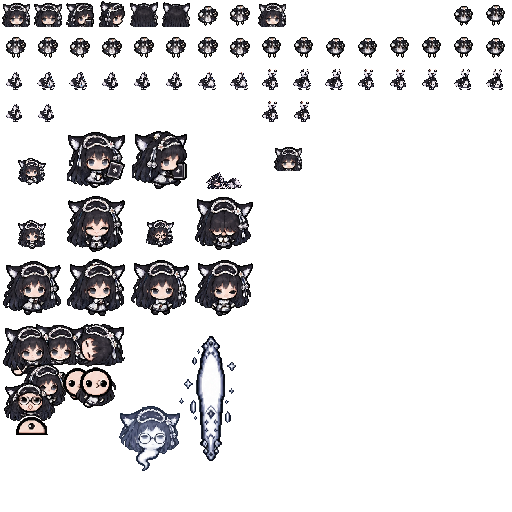
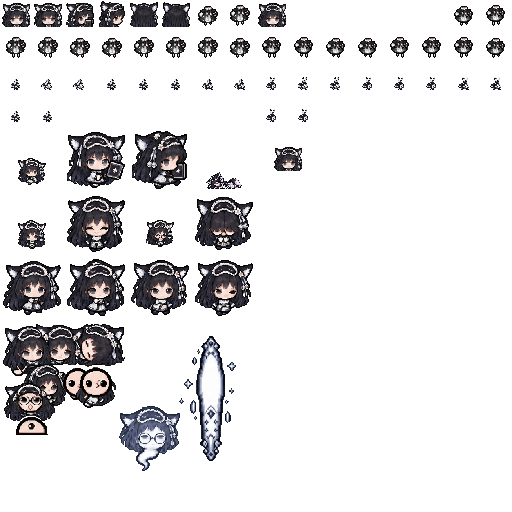
fix: keep GLM carry bodies below the face

Changed region(s): [[0.0, 0.125, 1.0, 0.25], [0.0, 0.2188, 0.125, 0.25]]

diff --git a/tools/pack_profile_poses.py b/tools/pack_profile_poses.py
@@ -3,6 +3,7 @@
 Run after the legacy walk pass. --check re-packs the published sources in memory;
 --before-ref also proves every registered skin is unchanged outside the repair
 cells (and unchanged entirely for other families). Requires Pillow, offline only.
+--body-only excludes fallen cells from both packing and the isolation allowance.
 """
 import argparse
 import hashlib
@@ -27,11 +28,11 @@ def side_position(index, carry=False):
     return x + (256 if carry else 0), y
 
 
-def regions(record):
+def regions(record, body_only=False):
     cells = [(x, y, x + 32, y + 32)
             for carry in (False, True) for i in range(10)
             for x, y in [side_position(i, carry)]]
-    return cells + ([(192, 128, 256, 192)] if 'fallen' in record else [])
+    return cells + ([(192, 128, 256, 192)] if 'fallen' in record and not body_only else [])
 
 
 def source_image(record, expected_size):
@@ -47,7 +48,7 @@ def source_image(record, expected_size):
     return Image.alpha_composite(Image.new('RGBA', image.size), image)
 
 
-def apply(atlas, key):
+def apply(atlas, key, body_only=False):
     record = next((r for r in records() if r['key'] == key), None)
     if record is None:
         return atlas
@@ -83,7 +84,7 @@ def apply(atlas, key):
             frames.append(cell)
         for i, phase in enumerate(cfg['cycle']):
             out.paste(frames[phase], side_position(i, bool(row)))
-    if 'fallen' in record:
+    if 'fallen' in record and not body_only:
         cfg = record['fallen']
         part = source_image(record['sources'][1], cfg['size'])
         part = part.crop(part.getbbox())
@@ -94,7 +95,7 @@ def apply(atlas, key):
     return out
 
 
-def verify_isolation(before_ref, keys=None):
+def verify_isolation(before_ref, keys=None, body_only=False):
     repaired = {r['key']: r for r in records() if keys is None or r['key'] in keys}
     players = ET.parse(ROOT / 'content/players.xml').getroot()
     for player in players:
@@ -107,7 +108,7 @@ def verify_isolation(before_ref, keys=None):
             raise ValueError(f'{rel}: atlas dimensions changed')
         key = path.stem.removeprefix('character_').removesuffix('_b').removesuffix('chan')
         if key in repaired:
-            for box in regions(repaired[key]):
+            for box in regions(repaired[key], body_only):
                 new.paste(old.crop(box), box[:2])
         if old.tobytes() != new.tobytes():
             raise ValueError(f'{rel}: pixels changed outside allowed profile/fallen cells')
@@ -118,6 +119,8 @@ def main():
     parser = argparse.ArgumentParser(description=__doc__)
     parser.add_argument('--check', action='store_true')
     parser.add_argument('--before-ref')
+    parser.add_argument('--body-only', action='store_true',
+                        help='Pack/check side and carry bodies while protecting every fallen cell')
     parser.add_argument('--key', action='append', choices=[r['key'] for r in records()],
                         help='Limit writes and allowed change regions to these families; repeatable')
     args = parser.parse_args()
@@ -129,7 +132,7 @@ def main():
             continue
         target = ROOT / f'resources/gfx/characters/costumes/character_{key}chan.png'
         current = Image.open(target).convert('RGBA')
-        rebuilt = apply(current, key)
+        rebuilt = apply(current, key, args.body_only)
         if args.check:
             if current.tobytes() != rebuilt.tobytes():
                 raise ValueError(f'{key}: packed cells differ from published sources')
@@ -142,8 +145,9 @@ def main():
         manifest_path.write_text(json.dumps(manifest, indent=2)+'\n', encoding='utf-8')
         print('Updated normal sheets; regenerate existing tainted skins with --skins-only.')
     if args.before_ref:
-        verify_isolation(args.before_ref, args.key)
-    print('PASS: reviewed profile/carry/fallen source packing; offline only')
+        verify_isolation(args.before_ref, args.key, args.body_only)
+    scope = 'profile/carry' if args.body_only else 'profile/carry/fallen'
+    print(f'PASS: reviewed {scope} source packing; offline only')
 
 
 if __name__ == '__main__':

diff --git a/tools/preview_profile_poses.py b/tools/preview_profile_poses.py
@@ -24,6 +24,8 @@ def main():
     parser.add_argument('--animation-reference', type=Path, required=True)
     parser.add_argument('--before-ref', required=True)
     parser.add_argument('--key', default='glm')
+    parser.add_argument('--body-only', action='store_true',
+                        help='Label this review as a body fit, with Hit/Death as unchanged controls')
     args = parser.parse_args()
     output = args.output.resolve()
     if any(output.is_relative_to(ROOT / p) for p in ('resources', 'content')):
@@ -39,10 +41,11 @@ def main():
     output.mkdir(parents=True, exist_ok=True)
     panel = Image.new('RGB', (128 + 192*len(SELECTED), 1150), '#202b3a')
     draw = ImageDraw.Draw(panel)
-    scope = 'profile/carry/fallen repair' if 'fallen' in record else 'profile/carry repair; Hit/Death controls'
+    scope = ('profile/carry/fallen repair' if 'fallen' in record and not args.body_only else
+             'profile/carry repair; Hit/Death controls')
     draw.text((12, 8), f'{args.key.upper()} {scope} / mod pixels only / native keyframe transforms', fill='white')
     draw.text((12, 26), 'Native size above; nearest 2x below. Offline only: no item, ghost, tint, costumes or engine effects.', fill='#d2dde8')
-    report = {'before_ref': args.before_ref,
+    report = {'before_ref': args.before_ref, 'scope': scope,
               'animation_sha256': hashlib.sha256(args.animation_reference.read_bytes()).hexdigest(),
               'evidence': 'Offline keyframe composition; single carry-head key held for the cycle; not engine acceptance', 'skins': []}
     for form, suffix in enumerate(('', '_b')):

diff --git a/docs/ART_STATUS.md b/docs/ART_STATUS.md
@@ -4,7 +4,7 @@ Art inventory audited from source `8fd6a8c` on 2026-10-26, updated through the [
 
 ## Scope and evidence
 
-The runtime and earlier review inventory contains **216 tracked art files: 191 PNGs and 25 ANM2 files**. The tables below enumerate those paths once: 22 gameplay sheets, 22 stage/VS portraits, 22 dossier portraits, 22 dossier wrappers, 11 shared name strips, six menu files, 80 collectible icons, 12 trinket icons, one repository thumbnail and eighteen item-review PNGs. The [approved tainted design registry](approved-tainted-designs.json) separately inventories nine high-resolution source PNGs and their comparison JPEG, bringing that checkpoint to 226 files. The [GLM pose repair](GLM_PROFILE_POSES_2026-10-31.md) adds two generated source PNGs and one review PNG: **229 art files total (203 PNGs, 25 ANM2, one JPEG)**. The [GPT/Gemini profile repair](GPT_GEMINI_PROFILE_POSES_2026-10-31.md) adds two source PNGs and two review PNGs: **233 art files total (207 PNGs, 25 ANM2, one JPEG)**. These seventeen additional review/source files are not loaded by the game. No font file is bundled. The five pills, Relay Slime and native effect/HUD presentation are listed separately because they do not add custom image files.
+The runtime and earlier review inventory contains **216 tracked art files: 191 PNGs and 25 ANM2 files**. The tables below enumerate those paths once: 22 gameplay sheets, 22 stage/VS portraits, 22 dossier portraits, 22 dossier wrappers, 11 shared name strips, six menu files, 80 collectible icons, 12 trinket icons, one repository thumbnail and eighteen item-review PNGs. The [approved tainted design registry](approved-tainted-designs.json) separately inventories nine high-resolution source PNGs and their comparison JPEG, bringing that checkpoint to 226 files. The [GLM pose repair](GLM_PROFILE_POSES_2026-10-31.md) adds two generated source PNGs and one review PNG: **229 art files total (203 PNGs, 25 ANM2, one JPEG)**. The [GPT/Gemini profile repair](GPT_GEMINI_PROFILE_POSES_2026-10-31.md) adds two source PNGs and two review PNGs: **233 art files total (207 PNGs, 25 ANM2, one JPEG)**. The [GLM carry-fit follow-up](GLM_CARRY_CLEARANCE_2026-10-31.md) adds one review PNG: **234 art files total (208 PNGs, 25 ANM2, one JPEG)**. These eighteen additional review/source files are not loaded by the game. No font file is bundled. The five pills, Relay Slime and native effect/HUD presentation are listed separately because they do not add custom image files.
 
 On 2026-10-31 the owner approved all nine distinct tainted full-body designs. [The approval and production handoff](TAINTED_DESIGN_APPROVAL_2026-10-31.md) records the exact sources and remaining dossier/menu/gameplay adaptation. The runtime C-D assets below still use the old darkening output; approval does not mean those replacements have shipped. The existing generator/importer overlaps open v2 PR #2, so production integration must wait for that dependency without duplicating its work.
 
@@ -52,8 +52,8 @@ All sheets are 512x512 RGBA. Thirteen have independent image-tool source adaptat
 | Tainted Doubao-chan | [resources/gfx/characters/costumes/character_doubaochan_b.png](../resources/gfx/characters/costumes/character_doubaochan_b.png) | C-D; adapted/derived | Side body is a narrowed front; draw a proper profile while preserving identity and anchors. Distinct tainted design approved; runtime adaptation pending. |
 | Kimi-chan | [resources/gfx/characters/costumes/character_kimichan.png](../resources/gfx/characters/costumes/character_kimichan.png) | C-N; adapted/derived | Side body is a narrowed front; draw a proper profile while preserving identity and anchors. |
 | Tainted Kimi-chan | [resources/gfx/characters/costumes/character_kimichan_b.png](../resources/gfx/characters/costumes/character_kimichan_b.png) | C-D; adapted/derived | Side body is a narrowed front; draw a proper profile while preserving identity and anchors. Distinct tainted design approved; runtime adaptation pending. |
-| GLM-chan | [resources/gfx/characters/costumes/character_glmchan.png](../resources/gfx/characters/costumes/character_glmchan.png) | C-N; adapted/derived | [Generated side/carry parts and horizontal fallen pose](GLM_PROFILE_POSES_2026-10-31.md) packed and reviewed offline; native motion remains unobserved. |
-| Tainted GLM-chan | [resources/gfx/characters/costumes/character_glmchan_b.png](../resources/gfx/characters/costumes/character_glmchan_b.png) | C-D; adapted/derived | [Generated side/carry parts and horizontal fallen pose](GLM_PROFILE_POSES_2026-10-31.md) packed and reviewed offline; native motion remains unobserved. Distinct tainted design approved; runtime adaptation pending. |
+| GLM-chan | [resources/gfx/characters/costumes/character_glmchan.png](../resources/gfx/characters/costumes/character_glmchan.png) | C-N; adapted/derived | [Generated profile/fallen poses](GLM_PROFILE_POSES_2026-10-31.md) with a subsequent [carry face-clearance fit](GLM_CARRY_CLEARANCE_2026-10-31.md); native motion remains unobserved. |
+| Tainted GLM-chan | [resources/gfx/characters/costumes/character_glmchan_b.png](../resources/gfx/characters/costumes/character_glmchan_b.png) | C-D; adapted/derived | [Generated profile/fallen poses](GLM_PROFILE_POSES_2026-10-31.md) with a subsequent [carry face-clearance fit](GLM_CARRY_CLEARANCE_2026-10-31.md); native motion remains unobserved. Distinct tainted design approved; runtime adaptation pending. |
 
 ## Stage and VS portraits: 22
 
@@ -331,7 +331,7 @@ Let's Delve is already counted among the 80 collectible icons; Six Seven is alre
 | W1.1 inventory | Keep this list reconciled with tracked art and XML whenever an asset changes. | Source inventory complete at the audited baseline; no new visual acceptance. |
 | W1.2 style/pipeline | Apply [ART_SPEC.md](ART_SPEC.md) through a designed-icon manifest and deliberate validator migration. | Source pipeline and thirteen regression groups implemented. It preserved all PNGs during migration; the subsequent first batch changes exactly ten. Fixtures are not native acceptance. |
 | W1.3 item batches | About ten icons per batch, effect-specific silhouette, original reference shapes, 1x/4x sheet, provenance and checks. | All 92 icons are I-D, reviewed in nine batches; no I-P icon remains. Generic-placeholder replacements are authorized; respect any subsequently approved look. Native acceptance remains open. |
-| W1.4 mechanics | GLM profile/fallen and GPT/Gemini profile/carry repairs recorded offline; revisit GLM carry face clearance; correct the remaining 12 narrowed-front side bodies; re-crop the cut complete poses listed in [SPRITE_AUDIT_2026-10-27.md](SPRITE_AUDIT_2026-10-27.md) (Tainted Claude, Claude, Llama, Doubao; needs the private source atlases); inspect shared special animations and walk consistency. Crop leftovers in pose cells are cleaned and gated. | Preserve selected identity; geometric fixes do not imply native acceptance. |
+| W1.4 mechanics | GLM profile/fallen and GPT/Gemini profile/carry repairs recorded offline; GLM carry face clearance corrected offline; correct the remaining 12 narrowed-front side bodies; re-crop the cut complete poses listed in [SPRITE_AUDIT_2026-10-27.md](SPRITE_AUDIT_2026-10-27.md) (Tainted Claude, Claude, Llama, Doubao; needs the private source atlases); inspect shared special animations and walk consistency. Crop leftovers in pose cells are cleaned and gated. | Preserve selected identity; geometric fixes do not imply native acceptance. |
 | W1.5 tainted identities | Adapt the nine approved source designs into dossiers, stage/menu portraits and identity-matched front/side/back/hurt/death frames. | All nine full-body designs approved on 2026-10-31; exact sources recorded in [the registry](approved-tainted-designs.json). Production adaptation remains pending, with generator/importer integration dependent on PR #2. Do not overwrite C-T Claude/DeepSeek. |
 | W1.6 Relay Slime | Original fictional creature art, animation/registration, split-stage readability. | Bespoke art pending; preserve approved gameplay unless a new rule is separately approved. |
 | Tool hardening | Keep preview generation compatible with the registered item-art pipeline. | Repaired with six regression groups, explicit output and read-only comparison. Temporary preview inspected; all tracked images remain unchanged. Final cover/publication remain pending. |

diff --git a/docs/GLM_CARRY_CLEARANCE_2026-10-31.md b/docs/GLM_CARRY_CLEARANCE_2026-10-31.md
@@ -1,0 +1,43 @@
+# U6: GLM carry face clearance
+
+Baseline: v2 `72ffb32ef3d5e41c4962560e8f70cfb895299508`. The earlier [GLM profile/fallen repair](GLM_PROFILE_POSES_2026-10-31.md) introduced genuine side bodies, but its common `18/392` fit was too tall for the foreground carry layer. In the private native-transform composition, its raised arms covered the face even though the general body envelope passed. This is an offline finding, not a new owner engine report.
+
+## Repair
+
+Use the existing source at one common `11/392` scale for walking and carrying. Keep the reviewed collar anchors, ground y=26 and three-phase cycle. All ten carry cells now start at y=13, below the reviewed face area. The existing per-family geometry guard, introduced for GPT/Gemini, now also applies to GLM.
+
+Each normal/legacy-tainted GLM sheet changes exactly twenty side/carry cells. Heads, front/back movement, Hit, all Death cells including the horizontal fallen pose, and all other twenty skins remain unchanged. The common scale keeps torso and boot size consistent between the two source rows. Existing source PNGs, generation prompts and reference hashes are unchanged; the registry records this fit revision separately from their original provenance.
+
+`pack_profile_poses.py --body-only` excludes fallen cells from both packing and the pixel-isolation allowance, including when the family has a historical fallen repair. Its default full overlay remains available for complete reconstruction. The same preview flag labels Hit/Death as controls so the new comparison does not imply another fallen redraw. The unchanged tainted generator reproduces the legacy darkened skin; this is not the approved white-haired tainted identity.
+
+## Offline comparison
+
+![GLM normal and legacy tainted before/after, fixed origin and native size plus 2x](art/glm-carry-clearance-review/glm-profile-review.png)
+
+The supplied carry animation draws body pixels on foreground layer 12 after head layer 4. With the preview's explicit single-key head hold, the central face band (body-cell x=7..24, y=0..12) intersects 47-50 foreground pixels in every baseline walking key and zero in every revised key. The recorded metric covers this chosen band and supplied transforms, not every hairstyle/costume/render effect. The JSON receipt beside the comparison records source hashes without private paths.
+
+No native pixels are rendered or bundled. Interpolation, held-item artwork, costumes, tint, size/flight and engine behavior remain unobserved. The view retains the existing head angles and three-phase stride; it is not a complete animation acceptance pass.
+
+## Verification
+
+With Python and Pillow, from the repository root:
+
+```sh
+python tools/pack_profile_poses.py --check --key glm --body-only --before-ref 72ffb32ef3d5e41c4962560e8f70cfb895299508
+python tools/verify_hurt_poses.py --unchanged-since 72ffb32ef3d5e41c4962560e8f70cfb895299508
+python tools/check_pose_geometry.py
+python tools/make_roster_tainted_art.py --check
+python tools/preview_profile_poses.py REVIEW_OUTPUT --key glm --body-only --before-ref 72ffb32ef3d5e41c4962560e8f70cfb895299508 --animation-reference PRIVATE_PLAYER_ANM2
+python tools/preview_character_poses.py ALL_POSES_OUTPUT --animation-reference PRIVATE_PLAYER_ANM2
+bash tools/check.sh
+```
+
+Baseline reconstruction and idempotence pass with both full-overlay and body-only packing; fallen pixels match baseline exactly. Legacy tainted output matches the unchanged generator. The complete source/provenance records match baseline, all 22 Hit cells are unchanged, and the selected-family/body-only comparison protects every other pixel. The 22-form/45-key preview reports no clipping warnings, exact left/right mirrors and three GLM body phases.
+
+Four local negative controls reject a same-envelope fallen edit, a head edit, an unrelated GPT body edit and a repeated y=12 foreground pixel in every GLM carry key. The last fault satisfies the older envelope and phase rules but fails only the face-clearance guard. Positive controls pass afterward. These experiments supplement the standard CI gate; they are local checks, not engine evidence.
+
+## Handoff
+
+Installed `8fd6a8c`, gameplay values, saves, settings and game input are untouched. PR #2 remains protected and unmerged; HANDOFF/CHANGELOG consolidation and distinct-tainted runtime production remain dependent on it. All nine tainted design approvals remain valid. Existing ZipZipPipe credits and non-commercial terms continue to cover these mechanically repacked derivatives.
+
+Continue the six remaining normal profile families, special poses with hash-matched private sources, native animation/costume acceptance and the broader U0-U7 work. This is the second substantive unit after the PR #27 hardening reset; schedule the next short review after another one to three units unless a concrete failure takes priority.

diff --git a/docs/TESTING.md b/docs/TESTING.md
@@ -2,6 +2,14 @@
 
 Current acceptance status is summarized in HANDOFF.md. Dated sections preserve their original evidence scope. The installed gameplay checkpoint is `ef7d2dded1f5d849c8a638a310074278a90e81c2`, including owner-approved B1 PR #102, O4 transformation costume restoration and O5 Death packing. On 2026-10-26, 443 prior allowlisted files were backed up and reread-hash verified before replacement; all 451 installed tracked files then matched canonical Git bytes. No files were removed. No game was launched or controlled, and saves, settings and other mods were untouched. The game was closed during installation. Preserve this manual-test checkpoint during offline follow-ups. Documentation sync #104 installed exact source `8fd6a8c8a543226f414a01c654ff1f85bde1214c` and independently reverified all 451 tracked files. The owner replied "not tested yet" for that build; source follow-ups preserve it. Installation and successful CI are not engine acceptance. The earlier f8b2b0b startup attempt remains historical in ENGINE_AUDIT_2026-10-26.md.
 
+## U6: GLM carry foreground clearance (2026-10-31; offline)
+
+[The focused follow-up](GLM_CARRY_CLEARANCE_2026-10-31.md) corrects a foreground body obscuring the face in the supplied carry composition. Repacking the unchanged source at one 11/392 scale keeps all carry cells at y>=13. Each normal/legacy-tainted GLM sheet changes exactly twenty side/carry cells; every head, front/back, Hit/Death/fallen pixel and the other twenty skins are unchanged. The selected central face band changes from 47-50 overlapping body pixels per key to zero under the explicit preview head-hold assumption.
+
+Source reconstruction, idempotence, existing tainted-generator equality, all-22 unchanged Hit and body-only isolation pass. The 22-form/45-key preview has no sampled clipping warnings and preserves mirrors and three GLM phases. Four local faults are rejected: fallen/head/unrelated-family pixel edits and repeated carry pixels crossing the face boundary; positives pass afterward. CI includes the existing geometry/source-hash gate with the GLM clearance setting, while these additional reconstruction/fault controls remain local.
+
+No native animation, input, costume, weapon, save or playability acceptance is claimed. Sources and prompts, PR #2 files, installed 8fd6a8c and private saves/settings are unchanged. This section and the focused record supply the handoff pending consolidation.
+
 ## U6: GPT/Gemini profile and carry fit (2026-10-31; offline)
 
 [The focused handoff](GPT_GEMINI_PROFILE_POSES_2026-10-31.md) records two revised image-tool sources, actual prompts, per-family collar/ground fit and fixed-origin native-transform comparisons. Four normal/legacy-tainted sheets change exactly twenty side/carry cells each. All heads, front/back bodies, Hit/Death cells and the other eighteen skins remain pixel-identical to baseline.

diff --git a/docs/POSE_REVIEW.md b/docs/POSE_REVIEW.md
@@ -2,7 +2,7 @@
 
 Baseline `ffc52bf`; offline geometry review and mechanical packing correction only. Installed `f8b2b0b` is preserved. No game was launched. The owner's historical oversized-hurt-head report remains unclosed in the engine.
 
-Later follow-up: [GLM profile/carry/fallen repair](GLM_PROFILE_POSES_2026-10-31.md) replaces the two GLM side/fallen findings offline. The tables below retain the original O5 observations; they are not the current GLM art status. The [GPT/Gemini body repair](GPT_GEMINI_PROFILE_POSES_2026-10-31.md) subsequently replaces their normal/legacy-tainted side and carry bodies, with a foreground face-clearance check. Their head views and all Hit/Death pixels are unchanged. Native acceptance remains open.
+Later follow-up: [GLM profile/carry/fallen repair](GLM_PROFILE_POSES_2026-10-31.md) replaces the two GLM side/fallen findings offline. The tables below retain the original O5 observations; they are not the current GLM art status. The [GPT/Gemini body repair](GPT_GEMINI_PROFILE_POSES_2026-10-31.md) subsequently replaces their normal/legacy-tainted side and carry bodies, with a foreground face-clearance check. Their head views and all Hit/Death pixels are unchanged. The later [GLM carry-fit correction](GLM_CARRY_CLEARANCE_2026-10-31.md) adds face clearance while retaining its fallen pose. Native acceptance remains open.
 
 ## What was found and changed
 

diff --git a/docs/GPT_GEMINI_PROFILE_POSES_2026-10-31.md b/docs/GPT_GEMINI_PROFILE_POSES_2026-10-31.md
@@ -45,7 +45,7 @@ Additional local fault experiments reject wrong source hashes/dimensions, Gemini
 
 ## Handoff
 
-Six normal families still need profile repairs: Grok, Qwen, Llama, Mistral, Doubao and Kimi, plus their legacy tainted derivatives. Revisit GLM's earlier carry fit using this foreground-face review; it is deliberately unchanged in this focused unit. Existing head views, front/back consistency, special poses, physical walking/carrying, costumes, size/flight, hurt/death and interpolation remain native review cases.
+Six normal families still need profile repairs: Grok, Qwen, Llama, Mistral, Doubao and Kimi, plus their legacy tainted derivatives. GLM was unchanged in this unit; the subsequent [carry-clearance follow-up](GLM_CARRY_CLEARANCE_2026-10-31.md) addresses its foreground face overlap. Existing head views, front/back consistency, special poses, physical walking/carrying, costumes, size/flight, hurt/death and interpolation remain native review cases.
 
 All nine distinct tainted designs are approved; do not request approval again. Their dossier, stage, menu and complete gameplay adaptation still waits for the overlapping PR #2 importer/generator work. PR #2 remains unmerged and unmodified; consolidated HANDOFF/CHANGELOG edits remain deferred, with this document and TESTING/ART_STATUS providing the current record.
 

diff --git a/docs/GLM_PROFILE_POSES_2026-10-31.md b/docs/GLM_PROFILE_POSES_2026-10-31.md
@@ -2,6 +2,8 @@
 
 Baseline: v2 `1206a32946d279304f28890ddf4903aec939734a`. This is a normal-identity mechanical art repair and its existing darkened tainted derivative, reviewed offline. The nine distinct tainted designs were approved separately in [v2 PR #25](https://github.com/WaterLily5297/claude-chan-isaac-v2/pull/25); their runtime adaptation remains pending the PR #2 generator/importer dependency.
 
+Later correction: the [carry-clearance follow-up](GLM_CARRY_CLEARANCE_2026-10-31.md) replaces the original body fit described below with `11/392` and protects the face. This document preserves the first repair's historical scale and evidence; its fallen source/output remain unchanged.
+
 ## What changes
 
 GLM's side bodies previously came from squeezing a frontal body to 75% width. The new generated source supplies three right-facing clothed body phases and three corresponding raised-arm phases. The engine mirrors the same cells for leftward movement. The fallen source is a complete horizontal reclining pose, replacing the seated-looking source. Heads, front/back movement, Hit, upright Death and all other atlas pixels are unchanged.
